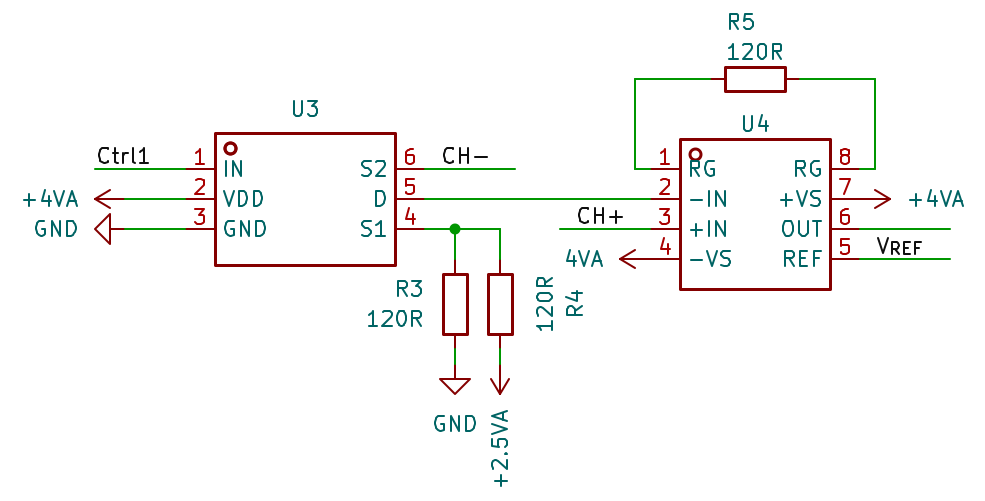
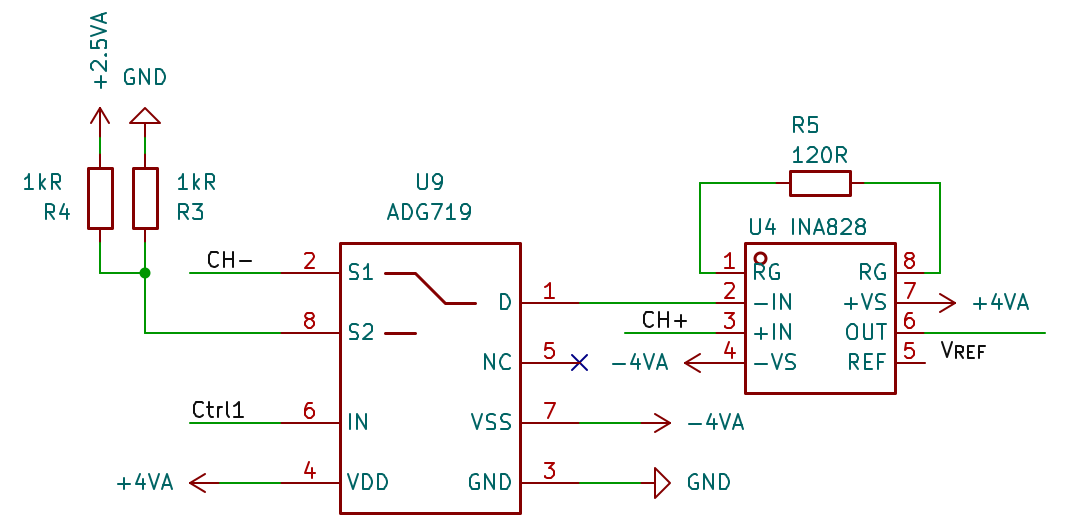
docs：补充原理图

diff --git a/docs/硬件设计文档.md b/docs/硬件设计文档.md
@@ -50,7 +50,7 @@ To view a copy of this license, visit http://creativecommons.org/licenses/by-sa/
 ### 2.2 模拟前端
 
 #### 2.2.1 仪表放大器（预放大 4 倍）
-- **原理图截图**：![仪表放大器](docs/pic/仪表放大器原理图.png)
+- **原理图截图**：![仪表放大器](/docs/pic/仪表放大器原理图.png)
 - **功能描述**：将应变片半桥的差分毫伏信号放大 4 倍，提高信噪比。
 - **关键器件**：
   
@@ -77,7 +77,7 @@ To view a copy of this license, visit http://creativecommons.org/licenses/by-sa/
   - TP_INA_OUT（测量放大后波形）
 
 #### 2.2.2 4阶有源低通滤波器（100kHz/200kHz 可选）
-- **原理图截图**：![Filter](./pic/E4_Filter.png)
+- **原理图截图**：![滤波器原理图](/docs/pic/滤波器原理图.png)
 - **功能描述**：四阶巴特沃斯低通滤波器，截止频率 200kHz，通带纹波 < 0.2dB。
 - **关键器件**：
 
@@ -102,10 +102,11 @@ To view a copy of this license, visit http://creativecommons.org/licenses/by-sa/
 - **测试点**：
   - TP_FILTER_OUT（测量滤波器输出）
 
-#### 2.2.3 衰减级（1/4）
-- **原理图截图**：![衰减](./pic/E4_ATTEN.png)
-- **功能描述**：将预放大后的信号衰减至 ADC 输入的差分信号与合适幅度。
+#### 2.2.3 差分转单端/衰减级
+- **原理图截图**：![差分转单端-衰减原理图](pic/差分转单端-衰减原理图.png)
+- **功能描述**：将预放大后的信号衰减至适合 ADC 输入的差分信号与幅度。
 - **关键器件**：
+  
   | 器件 | 型号 | 特性 | 选型理由 |
   |------|-----|------|---------|
   | 运算放大器 | OPA2192 | 高增益、低噪声、低功耗 | - |
@@ -116,19 +117,11 @@ To view a copy of this license, visit http://creativecommons.org/licenses/by-sa/
 - **仿真结果**：
   ![差分转单端仿真波形](/docs/pic/差分转单端仿真波形.png)
 
-#### 2.2.4 单端转差分与 ADC 驱动
-- **功能描述**：将滤波器输出的单端信号转换为差分信号，并调整共模电平至 1.65V。
-- **关键器件**：全差分运放（如 AD8138）或使用双运放搭建。
-- **设计计算**：
-  - 增益 = 1，输出共模 $ V_{OCM} = 1.65V $（由电阻分压提供）。
-  - 输出差分摆幅：滤波器输出 ±10mV → 差分 ±20mV？但 ADC 满量程 ±2.5V，需要进一步放大？**此处需重新审视整体链路增益**：若净增益为1，则输入 ±5mV 对应输出 ±5mV，远小于 ADC 满量程，应增加放大级或调整衰减比例。可根据题目“取1/4送滤波反相”推断，最终送入 ADC 前应有额外增益级。建议在滤波器后增加可变增益放大器（如 PGA）或固定增益级（×250）以匹配 ADC 范围。本设计简化：增加一级同相放大 ×250（由精密运放实现）。
-- **接口信号**：ADC_DIFF+, ADC_DIFF- → MCU ADC 差分输入引脚。
-
 ### 2.2 MCU 最小系统（STM32G473）
 - **原理图截图**：![MCU](./pic/E4_MCU.png)
 - **功能描述**：核心控制与数据采集。
 - **关键器件**：STM32G473VE，8MHz 晶振，复位电路，SWD 接口。
-- 
+
 | 器件 | 型号 | 特性 | 选型理由 |
 |------|-----|------|---------|
 | MCU | STM32G473QET6 | ARM Cortex-M4F, 512KB Flash, 128KB RAM，丰富的模拟外设 | 性能满足需求，成本合理 |
@@ -140,7 +133,7 @@ To view a copy of this license, visit http://creativecommons.org/licenses/by-sa/
   - BOOT0 通过 10k 下拉，按键上拉可选。
   - UART：TX 经过开漏缓冲器接入总线；RX 上拉到 3.3V。
   
-- **接口信号**：列出 ADC 输入、触发输入、USB、QSPI、FSMC（SRAM）等。
+- **接口信号**：
 
 | 接口名 | 方向 | 协议 | 连接到 | 备注 |
 |--------|------|------|--------|------|
